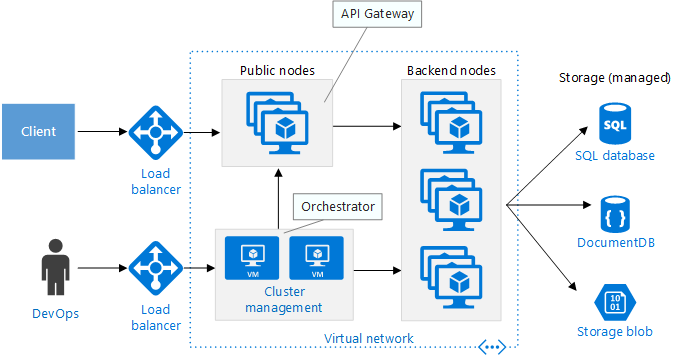
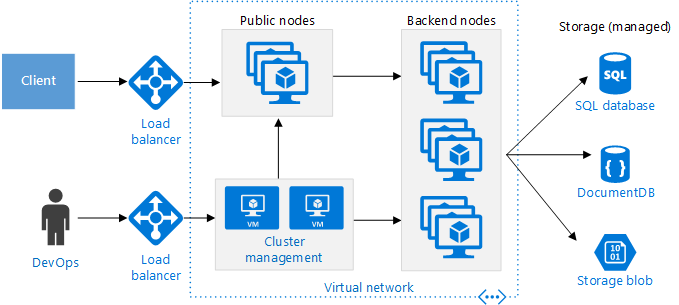
Tweak microservices diagrams and doc

diff --git a/docs/guide/architecture-styles/microservices.md b/docs/guide/architecture-styles/microservices.md
@@ -2,15 +2,8 @@
 
 A microservices architecture consists of a collection of small, autonomous services. Each service is self-contained and should implement a single business capability. 
 
-There are two main options for building a microservices application on Azure:
-
-- Containers using a container orchestrator such as Docker Swarm, DC/OS, or Kubernetes. 
-- Azure Service Fabric.
-
-
 ![](./images/microservices-logical.png)
  
-
 In some ways, microservices are the natural evolution of service oriented architectures (SOA), but there are differences between microservices and SOA. Here are some defining characteristics of a microservice:
 
 - In a microservices architecture, services are small, independent, and loosely coupled.
@@ -100,14 +93,12 @@ Consider this architectural style for:
 
 - Services should have loose coupling and high functional cohesion. Functions that are likely to change together should be packaged and deployed together. If they reside in separate services, those services end up being tightly coupled, because a change in one service will require updating the other service. Overly chatty communication betweeen two services may be a symptom of tight coupling and low cohesion. 
 
-## Microservices using containers on Azure
+## Microservices using Azure Container Service 
 
-The following diagram shows a microservices architecture using containers running on Azure.
+You can use Azure Container Service to configure and provision a Docker cluster. Azure Container Services supports several popular container orchestrators, including DC/OS, Docker Swarm, and Kubernetes.
 
 ![](./images/microservices-acs.png)
  
-You can use Azure Container Service to configure and provision a Docker cluster. Azure Container Services supports several popular container orchestrators, including DC/OS, Docker Swarm, and Kubernetes.
-
 **Public nodes** are reachable through a public-facing load balancer. The API gateway is hosted on these nodes.
 
 **Backend nodes** run services that clients reach via the API gateway. These nodes don’t receive Internet traffic directly. The backend nodes might include more than one pool of VMs, each with a different hardware profile. For example, you could create separate pools for general compute workloads, high CPU workloads, and high memory workloads. 
@@ -126,15 +117,16 @@ The following diagram shows three nodes running four different services (indicat
 
 ## Microservices using Azure Service Fabric
 
-The following diagram shows a microservices architecture using Azure Service Fabric
+The following diagram shows a microservices architecture using Azure Service Fabric.
 
 ![](./images/service-fabric.png)
 
 The Service Fabric Cluster is deployed to one or more VM scale sets. You might have more than one VM scale set in the cluster, in order to have a mix of VM types. An API Gateway is placed in front of the Service Fabric cluster, with an external load balancer to receive client requests.
 
-The Service Fabric runtime automatically handles node failover, health monitoring, and other cluster management functions. Services communicate with each other using the reverse proxy that is built into Service Fabric. Service Fabric provides a discovery service that can resolve the endpoint for a named service.
+The Service Fabric runtime performs cluster management, including service placement, node failover, and health monitoring. The runtime is deployed on the cluster nodes themselves. There isn't a separate set of cluster management VMs.
 
-![](./images/service-fabric-cluster.png)
+Services communicate with each other using the reverse proxy that is built into Service Fabric. Service Fabric provides a discovery service that can resolve the endpoint for a named service.
+
 
 
 

diff --git a/docs/guide/architecture-styles/event-driven.md b/docs/guide/architecture-styles/event-driven.md
@@ -10,14 +10,13 @@ This archicture style has several flavors, depending on the volume and velocity 
 
 - **Simple event processing**. An event immediately triggers an action in the consumer. For example, you could use Azure Functions with a Service Bus trigger, so that a function executes whenever a message is published to a Service Bus topic.
 
-
 - **Complex event processing**. A consumer processes a series of events, looking for patterns in the event data, using a technology such as Azure Stream Analytics or Apache Storm. For example, you could aggregrate readings from an embedded device over a time window, and generate a notification if the moving average crosses a certain threshold. 
 
 - **Event stream processing**. Use a streaming service to ingest events, with multiple consumers for different subsystems of the application. IoT workloads fall into this category.
 
 The source of the events may be external to the system, such as physical devices in an IoT solution. In that case, the system must be able to ingest the data at the volume and throughput that is required by the data source.
 
-In the logical diagram above, each type of consumer is shown as a single box. In practice, there will often be multiple instances of a consumer, for reliability, and in order to handle the volume and frequency of events. A single consumers might also process events on multiple threads. This can create challenges if events must be processed in order, or require exactly-once semantics. See [Minimize Coordination][minimize-coordination]. 
+In the logical diagram above, each type of consumer is shown as a single box. In practice, it's common to have multiple instances of a consumer, to avoid having the consumer become a single point of failure in system. Multiple instances might also be necessary  to handle the volume and frequency of events. Also, a single consumer might process events on multiple threads. This can create challenges if events must be processed in order, or require exactly-once semantics. See [Minimize Coordination][minimize-coordination]. 
 
 ## When to use this architecture
 
